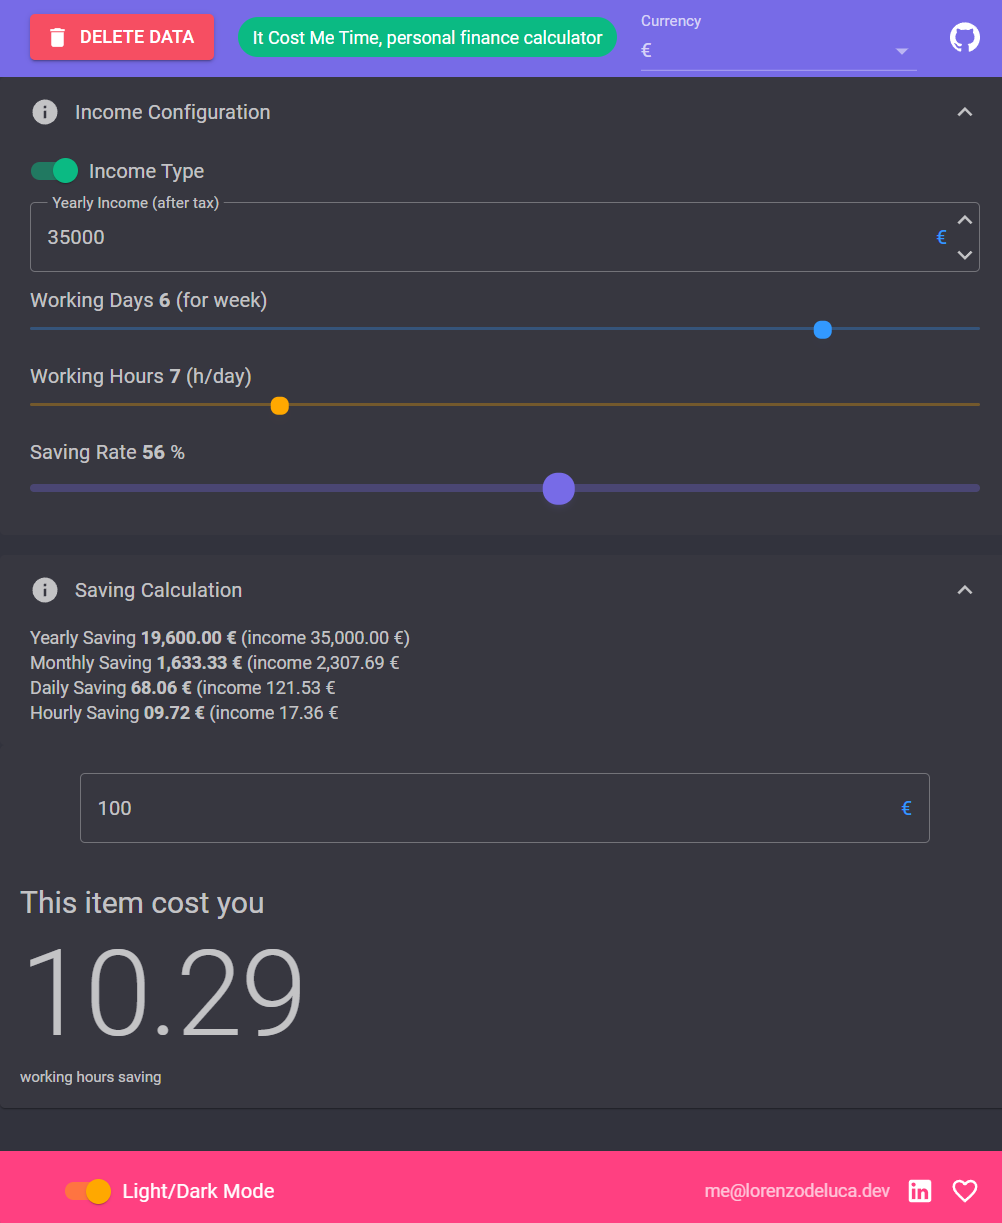
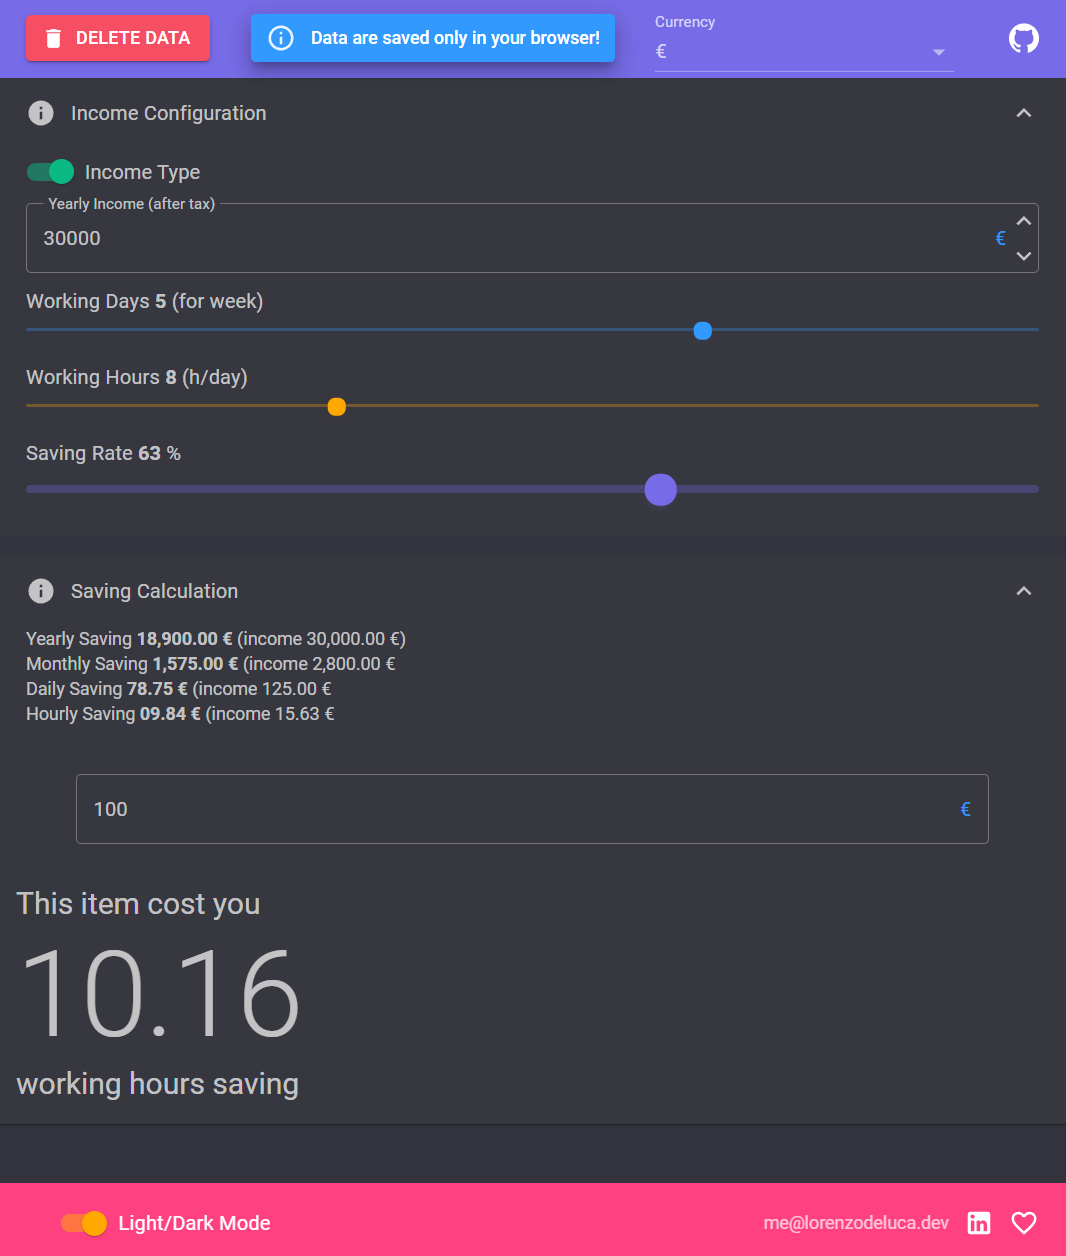
small fixes

diff --git a/it-cost-my-time/Entities/Configuration.cs b/it-cost-my-time/Entities/Configuration.cs
@@ -3,10 +3,10 @@
     public class Configuration
     {
         public decimal YearlyIncome { get; set; } = 30000;
-        public decimal MonthlyIncome { get; set; } = 0;
+      
         public int WorkingDays { get; set; } = 5;
         public int WorkingHours { get; set; } = 8;
-        public int PayMonths { get; set; } = 13;
+        
         public decimal SavingRate { get; set; } = 50;
         public string Currency { get; set; } = "€";
 
@@ -32,6 +32,47 @@
                 _incomeType = value;
             } 
         }
+
+        //   public decimal MonthlyIncome { get; set; } = 0;
+        private decimal _monthlyIncome = 0;
+        public decimal MonthlyIncome
+        {
+            get
+            {
+                return this._monthlyIncome;
+            }
+
+            set
+            {
+                if (!_incomeType)
+                {
+                    YearlyIncome = decimal.Round(value * PayMonths, 2, MidpointRounding.AwayFromZero);
+                }
+
+                _monthlyIncome = value;
+            }
+        }
+
+        // public int PayMonths { get; set; } = 13;
+        private int _payMonths { get; set; } = 13;
+        public int PayMonths
+        {
+            get
+            {
+                return this._payMonths;
+            }
+
+            set
+            {
+                if (!_incomeType)
+                {
+                    YearlyIncome = decimal.Round(MonthlyIncome * value, 2, MidpointRounding.AwayFromZero);
+                }
+
+                _payMonths = value;
+            }
+        }
+
 
         public void ReadConfiguration(Configuration configuration)
         {

diff --git a/it-cost-my-time/Services/CalculateService.cs b/it-cost-my-time/Services/CalculateService.cs
@@ -1,6 +1,4 @@
 using it_cost_my_time.Entities;
-using Microsoft.Extensions.Configuration;
-using System.Runtime.CompilerServices;
 
 namespace it_cost_my_time.Services
 {
